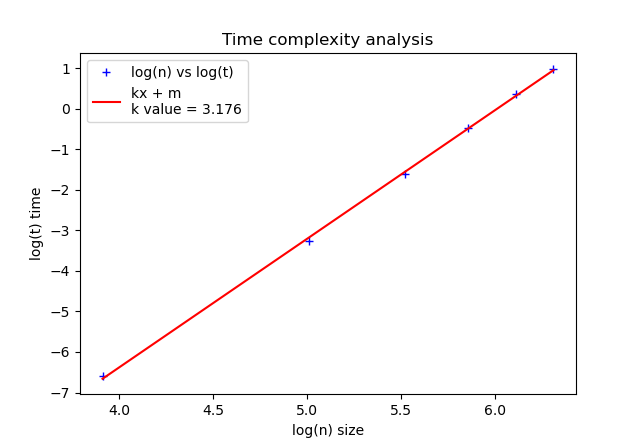
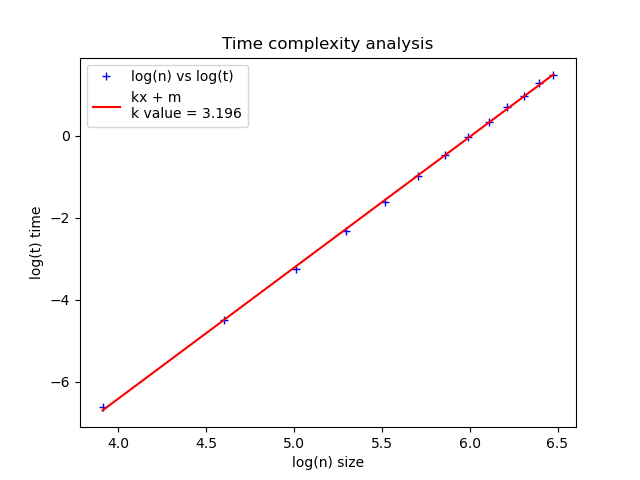
...

diff --git a/yoda/1DV505/ws222gx_assign1/3-sum/3_sum.py b/yoda/1DV505/ws222gx_assign1/3-sum/3_sum.py
@@ -9,8 +9,8 @@ from utils.linear_regression import line_reg, log_values
 def benchmark_function(test_func):
 
     target = 20
-    min_size, max_size, step = 50, 650, 100
-    trials = 5
+    min_size, max_size, step = 10_000, 70_000, 10_000
+    trials = 3
 
     size_lst = list(range(min_size, max_size, step))
     avg_times = []
@@ -34,18 +34,18 @@ def benchmark_function(test_func):
 
 
 
-labels = ["Brute force", "Caching"]
+labels = ["Brute force", "Two pointer", "Caching"]
 
-avg_times_bf, size_lst = benchmark_function(brute_force)
-# avg_times_tP, size_lst = benchmark_function(two_pointer)
-# avg_times_ch, size_lst = benchmark_function(caching)
+# avg_times_bf, size_lst = benchmark_function(brute_force)
+avg_times_tP, size_lst = benchmark_function(two_pointer)
+avg_times_ch, size_lst = benchmark_function(caching)
 
 # print("Brute force:", avg_times_bf[-1])
 # print("Two pointer:", avg_times_tP[-1])
 # print("Caching:", avg_times_ch[-1])fluctuates
 
 
-log_x, log_y = log_values(size_lst, avg_times_bf)
+"""log_x, log_y = log_values(size_lst, avg_times_bf)
 k, m, line_y = line_reg(log_x, log_y)
 rounded_k = round(k, 3)
 
@@ -58,104 +58,37 @@ plt.xlabel("log(n) size")
 plt.ylabel("log(t) time")
 plt.title("Time complexity analysis")
 plt.legend()
-plt.show()
+plt.show()"""
 
 
 
 
-plt.plot(size_lst, avg_times_bf, "-+b", label=labels[0])
-# plt.plot(size_lst, avg_times_ch, "-+y", label=labels[1])
-# plt.plot(size_lst, avg_times_tP, "-+r", label="Caching force")
+# plt.plot(size_lst, avg_times_bf, "-+b", label=labels[0])
+plt.plot(size_lst, avg_times_ch, "-+y", label=labels[1])
+plt.plot(size_lst, avg_times_tP, "-+r", label=labels[2])
 plt.xlabel("List sizes")
 plt.ylabel("Time in seconds(s)")
-plt.title("Linear regression log(n) vs log(t)")
+plt.title("Two pointer vs caching")
 plt.legend()
 plt.show()
 
 
 
-"""
 
-for i in range(3):
+
+"""for i in range(3):
     avg_times_bf, size_lst = benchmark_function(brute_force)
     plt.plot(size_lst, avg_times_bf, "+", label=f"Run {i+1}")
 
 plt.legend()
 plt.xlabel("List sizes")
 plt.ylabel("Time in seconds(s)")
-plt.show()
-"""
+plt.title("Fluctuations")
+plt.show()"""
+
 
 
 # finds the max values to make the plot even
 # max_val = max(max(log_n_bf), max(log_t_bf), max(log_n_ch_tp), max(log_t_ch_tp))
 
 # plt.plot(size_lst, avg_times_bf, "-+r", label=labels[0])
-
-
-
-
-
-
-
-
-
-
-
-
-
-
-
-
-
-
-
-
-
-
-
-
-
-
-
-
-
-
-
-
-
-
-
-
-
-
-
-
-
-
-
-
-
-
-
-
-
-
-
-
-
-
-
-
-
-
-
-
-
-
-
-
-
-
-
-

diff --git a/yoda/1DV505/ws222gx_assign1/3-sum/the_3_sum_problem.md b/yoda/1DV505/ws222gx_assign1/3-sum/the_3_sum_problem.md
@@ -2,13 +2,13 @@
 ## William Schröder (ws222gx@student.lnu.se)
 
 ## I. Introduction
-This report covers the 3-sum problem, outlining what the problem is and discussing a range of algorithms to solve it, from the straightforward brute-force approach to more optimized techniques. The experiments in this report aim to evaluate and compare the algorithms based on speed, looking at which methods perform best under different list sizes and target values.
+This report covers the 3-sum problem, outlining what the problem is and discussing a range of algorithms to solve it, from a simple approach as which is brute force to two more complex approaches, as in two pointer and caching. The report will also cover time complexity, and how every experiment have been set up.
 
 
 
 ### A. Problem Formulation
 
-In the 3-sum problem, given a list of integers of size N, the task is to identify all unique combinations of three integers from the list that add up to a specified target value. Each triplet must be distinct, meaning (5, 3, 2) is the same as (2, 3, 5) and (3, 5, 2) and should only be counted once. This requirement makes the problem more complex, especially for larger lists, and challenges us to find efficient ways to solve it
+In the 3-sum problem, given a list of integers of size N, the task is to identify all unique combinations of three integers from the list that add up to a specified target value. Each triplet must be distinct, meaning (5, 3, 2) is the same as (2, 3, 5) and (3, 5, 2) and should only be counted once. This requirement makes the problem more complex, especially for larger lists, and challenges us to find efficient ways to solve it.
 
 ### B. Experimental Setup
 The experiments were conducted on a **Lenovo ideapad 5 pro** that has a AMD Ryzen 7 5000th series with 13gb of ram. When comparing the algorithms against each other the algorithms will have been ran on the same size list and with the same elements in that list. The operating system that was used was arch linux. The target for each test started at 20 and increased by 10 each time the list size increase. The target could be in practice any value because all three algorithms in this report is based on going through the whole list to find the three values that sum to the target. 
@@ -36,7 +36,7 @@ def brute_force(lst, target):
 ```
 
 ### Brute Force Experiments
-Brute force was tested on list sizes ranging from 50 to 500 elements with each iteration of list increasing by 50 which yielded a time between 0.05 to 1.75 seconds.
+Brute force was tested on list sizes ranging from 50 to 650 elements with each iteration of list increasing by 50 which yielded a time between 0.02 to 4.6 seconds.
 
 To confirm that the algorithm works like how it got planned out, the code ran three different runs on the same list size. This is to get an approximation if the algorithm was consistent in the results. Below is the result of that experiment.
 
